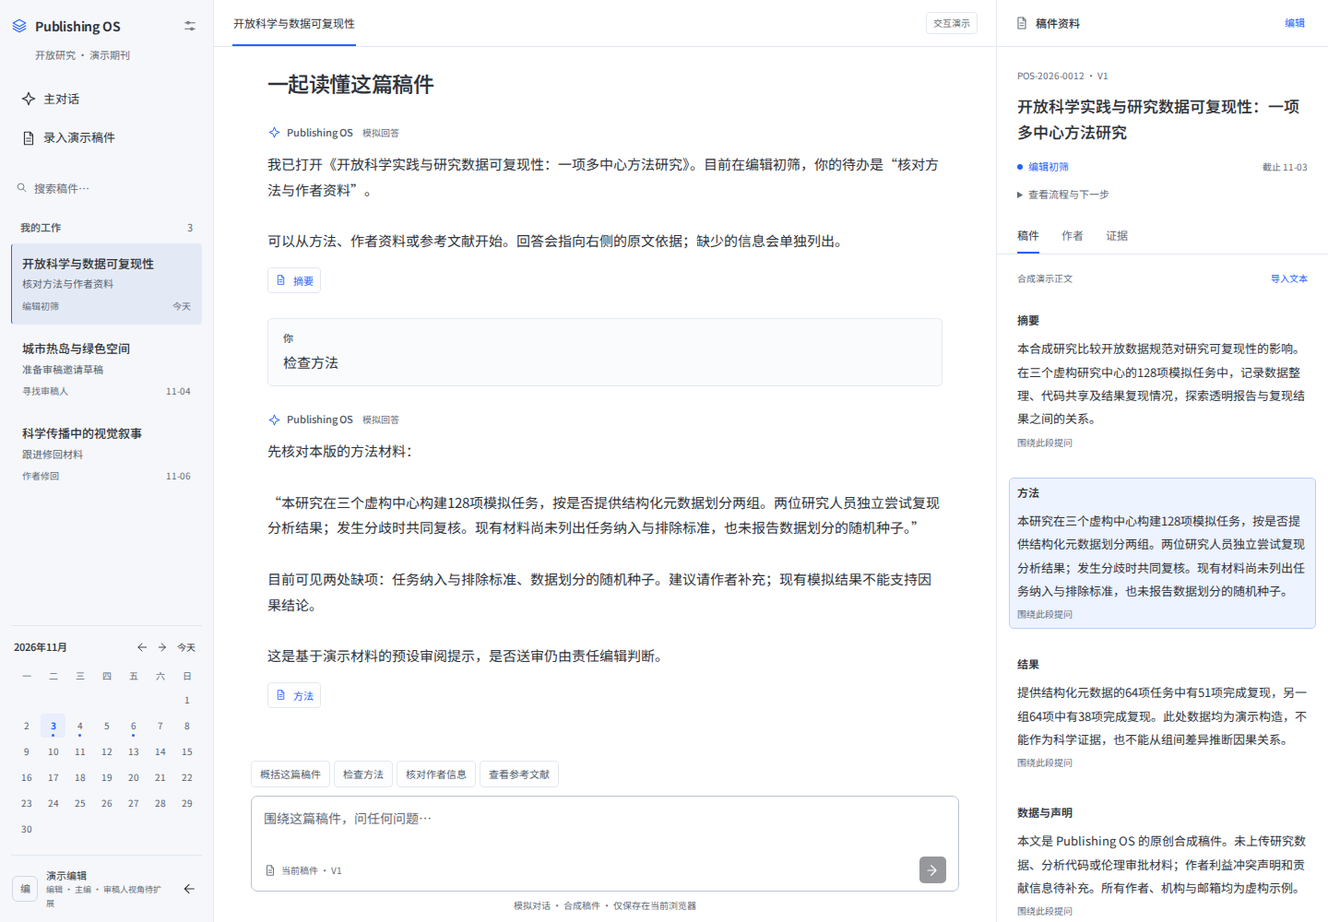
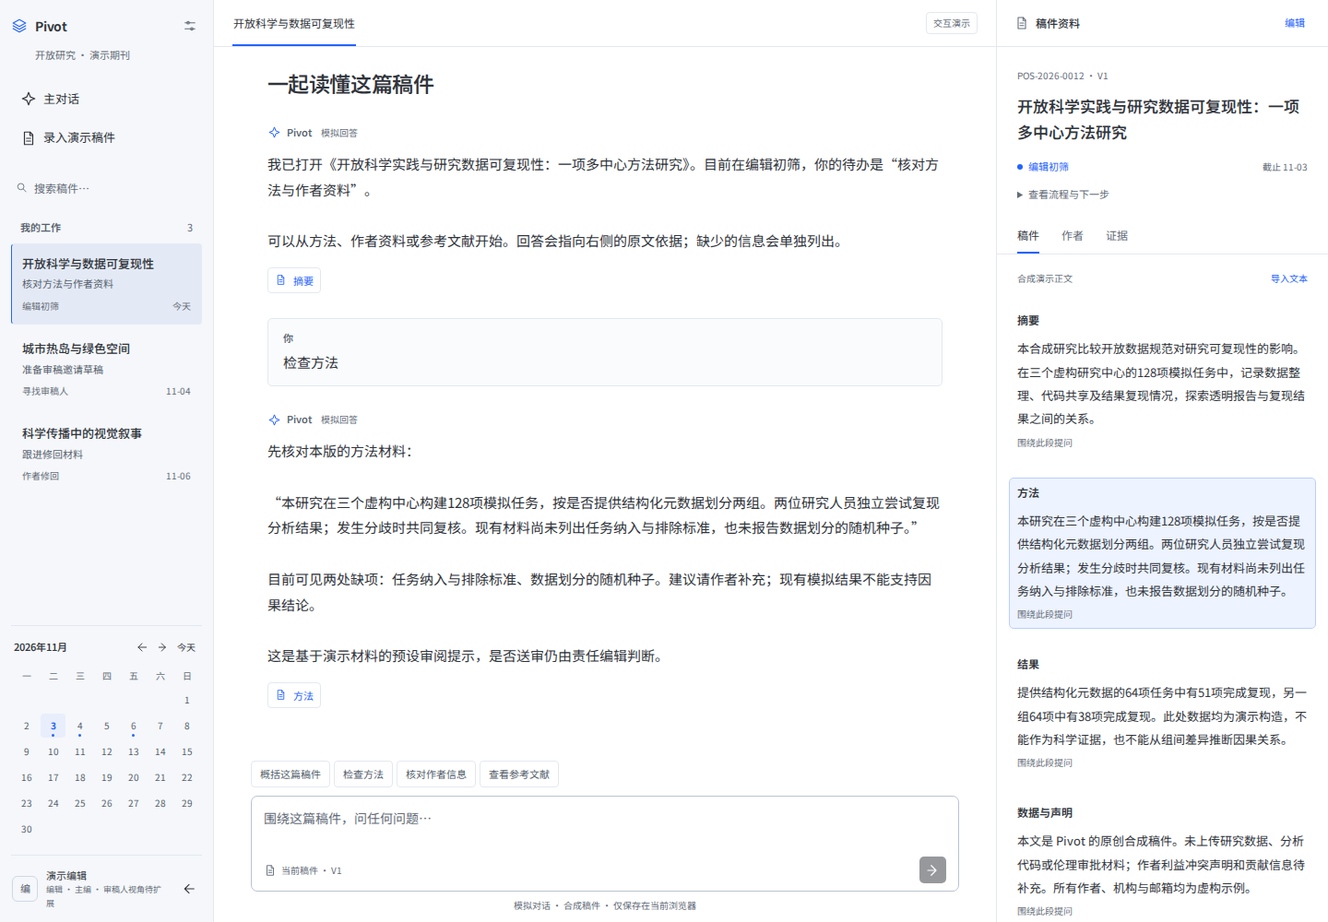
Name product Pivot and package a verified-installation demo release

diff --git a/apps/web/components/demo/workspace.tsx b/apps/web/components/demo/workspace.tsx
@@ -116,7 +116,7 @@ export default function DemoWorkspace() {
 
   function sidebar() {
     const visible = state.manuscripts.filter(m => (!dayFilter || m.due === dayFilter) && `${m.title} ${m.id}`.toLowerCase().includes(search.toLowerCase()));
-    return <><div className={s.brand}><span className={s.brandIcon}><Glyph name="layers" size={18}/></span>Publishing OS<button aria-label="演示说明" onClick={() => setPanel("about")}><Glyph name="settings" size={16}/></button></div>
+    return <><div className={s.brand}><span className={s.brandIcon}><Glyph name="layers" size={18}/></span>Pivot<button aria-label="演示说明" onClick={() => setPanel("about")}><Glyph name="settings" size={16}/></button></div>
       <div className={s.journal}>开放研究 · 演示期刊</div>
       <nav aria-label="工作导航"><button className={`${s.nav} ${!selected ? s.navActive : ""}`} onClick={() => choose("main")}><Glyph name="spark"/>主对话</button><button className={s.nav} onClick={() => setPanel("new")}><Glyph name="file"/>录入演示稿件</button></nav>
       <label className={s.search}><Glyph name="search" size={15}/><input name="manuscript-search" autoComplete="off" aria-label="搜索演示稿件" placeholder="搜索稿件…" value={search} onChange={e => setSearch(e.target.value)}/></label>
@@ -145,7 +145,7 @@ export default function DemoWorkspace() {
     </>;
   }
 
-  if (!ready) return <main className={s.loading}>正在打开 Publishing OS 演示…</main>;
+  if (!ready) return <main className={s.loading}>正在打开 Pivot 演示…</main>;
   return <div className={s.workspace}>
     <aside className={s.sidebar} aria-label="我的工作与日历">{sidebar()}</aside>
     <a href="#demo-message" className={s.skip}>跳到对话输入框</a>
@@ -153,7 +153,7 @@ export default function DemoWorkspace() {
       <header className={s.topbar}><button className={s.mobileTasks} aria-label="打开我的工作" onClick={() => setPanel("tasks")}><Glyph name="layers"/></button><span className={s.activeTitle}>{selected ? selected.short : "主对话"}</span><button className={s.demoTag} onClick={() => setPanel("about")}>交互演示</button><button className={s.mobileMaterial} onClick={() => setPanel("material")}><Glyph name="file" size={16}/>资料</button></header>
       <div className={s.transcript} ref={transcript} role="log" aria-label={selected ? `${selected.id}稿件对话` : "主对话记录"} aria-live="polite" aria-relevant="additions">
         <div className={s.threadHeading}><h1>{selected ? "一起读懂这篇稿件" : "从今天的工作开始"}</h1></div>
-        {messages.map((m: Message) => <article key={m.id} className={m.role === "user" ? s.userMessage : s.assistantMessage}><div className={s.messageAuthor}>{m.role === "user" ? "你" : <><Glyph name="spark" size={15}/>Publishing OS <span>模拟回答</span></>}</div><div className={s.messageText}>{m.text}</div>{!!m.sources?.length && <div className={s.citations}>{m.sources.map(c => <button key={c} onClick={() => { if(m.evidence?.[c === "external" ? "references" : c] !== selected?.paragraphs.find(p => p.id === (c === "external" ? "references" : c))?.text) {setNotice("这条历史回答引用的资料已修改，不能把当前正文当作原依据。请重新提问。"); return;} source(c); }}><Glyph name={c === "external" ? "search" : "file"} size={13}/>{c === "external" ? "公开文献" : selected?.paragraphs.find(p => p.id === c)?.heading || "原文"}</button>)}</div>}</article>)}
+        {messages.map((m: Message) => <article key={m.id} className={m.role === "user" ? s.userMessage : s.assistantMessage}><div className={s.messageAuthor}>{m.role === "user" ? "你" : <><Glyph name="spark" size={15}/>Pivot <span>模拟回答</span></>}</div><div className={s.messageText}>{m.text}</div>{!!m.sources?.length && <div className={s.citations}>{m.sources.map(c => <button key={c} onClick={() => { if(m.evidence?.[c === "external" ? "references" : c] !== selected?.paragraphs.find(p => p.id === (c === "external" ? "references" : c))?.text) {setNotice("这条历史回答引用的资料已修改，不能把当前正文当作原依据。请重新提问。"); return;} source(c); }}><Glyph name={c === "external" ? "search" : "file"} size={13}/>{c === "external" ? "公开文献" : selected?.paragraphs.find(p => p.id === c)?.heading || "原文"}</button>)}</div>}</article>)}
       </div>
       <div className={s.composerWrap}>{notice && <div className={s.notice} role="status"><span>{notice}</span><button aria-label="关闭提示" onClick={() => setNotice("")}><Glyph name="close" size={14}/></button></div>}{storageError && <p role="alert" className={s.notice}>浏览器无法保存演示资料。请允许本地存储或复制需要保留的文字；刷新可能丢失改动。</p>}
         <div className={s.suggestions}>{(selected ? ["概括这篇稿件","检查方法","核对作者信息","查看参考文献"] : ["今天有哪些工作？","下一步先处理什么？"]).map(q => <button key={q} onClick={() => send(q)}>{q}</button>)}</div>

diff --git a/apps/web/components/publishing/workspace.tsx b/apps/web/components/publishing/workspace.tsx
@@ -82,12 +82,12 @@ export default function PublishingWorkspace({ children }: { children: ReactNode 
     } catch (failure) { if (failure instanceof APIError && failure.status === 401) setAuthLost(true); throw failure; }
   }, [session]);
   async function createDraft() { setError(""); setRefreshing(true); try { const result = await mutate<{ manuscript_id: string }>("/drafts", {}); select(result.manuscript_id); await refresh(); } catch (failure) { setError((failure as Error).message); } finally { setRefreshing(false); } }
-  if (!session || authLost) return <div className={styles.loading}><h1>Publishing OS</h1><p role="status">{error || "正在载入工作区…"}</p>{authLost ? <Link href="/">返回登录</Link> : <button onClick={() => void refresh()} disabled={refreshing}>重新载入</button>}</div>;
+  if (!session || authLost) return <div className={styles.loading}><h1>Pivot</h1><p role="status">{error || "正在载入工作区…"}</p>{authLost ? <Link href="/">返回登录</Link> : <button onClick={() => void refresh()} disabled={refreshing}>重新载入</button>}</div>;
   return <Context.Provider value={{ session, workspace, detail, selectedId, error, refreshing, refresh, select, setReviewContext, setUnsaved, mutate }}>
     <div className={styles.shell} data-theme={theme} onClickCapture={guardLink}>
       <a className={styles.skip} href="#publishing-chat">跳到对话</a>
       <aside className={`${styles.sidebar} ${drawer ? styles.drawerOpen : ""}`} aria-label="我的工作">
-        <div className={styles.brand}><strong>Publishing OS</strong><button className={styles.mobileOnly} onClick={() => setDrawer(false)} aria-label="关闭工作列表"><Glyph name="close" /></button></div>
+        <div className={styles.brand}><strong>Pivot</strong><button className={styles.mobileOnly} onClick={() => setDrawer(false)} aria-label="关闭工作列表"><Glyph name="close" /></button></div>
         <p className={styles.journal}>{session.journal.name}</p>
         <div className={styles.sidebarActions}><button onClick={() => select(null)}>我的工作 <span>{workspace?.counts.actionable ?? 0}</span></button>{session.user.role === "author" && <button onClick={() => void createDraft()} disabled={refreshing}><Glyph name="file" size={16} />新建投稿</button>}</div>
         <div className={styles.taskList}>{workspace?.tasks.length ? workspace.tasks.map(task => <Link key={task.id} href={`/publishing?manuscript=${task.manuscript_id}`} onClick={event => { event.preventDefault(); select(task.manuscript_id); }} className={selectedId === task.manuscript_id ? styles.selected : ""}><strong>{task.label}</strong><span>{task.title || "未命名投稿"}</span><small>{task.number}{task.status === "waiting" ? " · 等待处理" : task.blocking ? " · 需要你处理" : ""}</small></Link>) : <p className={styles.emptySmall}>目前没有分派给你的待办。</p>}</div>

diff --git a/apps/web/app/workbench/page.tsx b/apps/web/app/workbench/page.tsx
@@ -93,7 +93,7 @@ export default function Workbench(){
  return <div className={s.shell} data-theme={dark?"dark":"light"} style={{"--wb-preview":`${previewWidth}px`} as CSSProperties}>
   <a className={s.skip} href="#workbench-main">跳转到工作内容</a>
   {navOpen&&<button className={s.backdrop} aria-label="关闭工作导航" onClick={()=>setNavOpen(false)}/>}
-  <aside ref={navRef} role={navOpen?"dialog":undefined} aria-modal={navOpen||undefined} className={`${s.sidebar} ${navOpen?s.navOpen:""}`} aria-label="工作导航"><Link className={s.brand} href="/workbench"><span className={s.brandMark}><Glyph name="layers" size={19}/></span>Publishing OS</Link><div className={s.journal}>开放科学 · 测试期刊</div>
+  <aside ref={navRef} role={navOpen?"dialog":undefined} aria-modal={navOpen||undefined} className={`${s.sidebar} ${navOpen?s.navOpen:""}`} aria-label="工作导航"><Link className={s.brand} href="/workbench"><span className={s.brandMark}><Glyph name="layers" size={19}/></span>Pivot</Link><div className={s.journal}>开放科学 · 测试期刊</div>
    <button className={s.sidebarClose} onClick={()=>setNavOpen(false)}>关闭导航<Glyph name="close" size={15}/></button><nav aria-label="工作视图"><button className={view==="work"&&stage==="all"?s.active:""} onClick={()=>{setStage("all");setTodayOnly(false);navigate("work");}}><Glyph name="inbox"/>我的工作<span>{data.cases.length}</span></button><div className={s.navGroup}>工作队列</div>{stages.slice(1).map(item=><button key={item.key} className={view==="work"&&stage===item.key?s.active:""} onClick={()=>{setStage(item.key);setTodayOnly(false);navigate("work");}}><Glyph name={item.icon} size={16}/>{item.label}<span>{data.cases.filter(c=>c.stage_key===item.key).length}</span></button>)}
    {data.saved_views.length>0&&<><div className={s.navGroup}>常用视图</div>{data.saved_views.map((item,index)=><button key={index} onClick={()=>{setQuery(item.query);setStage(item.stage);setSort(item.sort);setTodayOnly(item.today_only===true);navigate("work");}}><Glyph name="layers" size={16}/>{item.name}</button>)}</>}
    </nav><div className={s.sidebarBottom}><span className={s.demo}>合成数据演示</span><Link href="/">投稿与邮箱工作台<Glyph name="arrow" size={14}/></Link><label className={s.theme}><Glyph name="theme" size={16}/><select aria-label="界面主题" value={theme} onChange={e=>setTheme(e.target.value)}><option value="light">浅色</option><option value="dark">深色</option><option value="system">跟随系统</option></select></label><div className={s.profile}><span>{session.user.name.slice(0,1)}</span><div>{session.user.name}<small>{session.user.role==="chief_editor"?"主编":"责任编辑"}</small></div></div></div>

diff --git a/apps/web/components/demo/data.ts b/apps/web/components/demo/data.ts
@@ -38,7 +38,7 @@ export function initialState(): DemoState {
         { id: "abstract", heading: "摘要", text: "本合成研究比较开放数据规范对研究可复现性的影响。在三个虚构研究中心的128项模拟任务中，记录数据整理、代码共享及结果复现情况，探索透明报告与复现结果之间的关系。" },
         { id: "methods", heading: "方法", text: "本研究在三个虚构中心构建128项模拟任务，按是否提供结构化元数据划分两组。两位研究人员独立尝试复现分析结果；发生分歧时共同复核。现有材料尚未列出任务纳入与排除标准，也未报告数据划分的随机种子。" },
         { id: "results", heading: "结果", text: "提供结构化元数据的64项任务中有51项完成复现，另一组64项中有38项完成复现。此处数据均为演示构造，不能作为科学证据，也不能从组间差异推断因果关系。" },
-        { id: "availability", heading: "数据与声明", text: "本文是 Publishing OS 的原创合成稿件。未上传研究数据、分析代码或伦理审批材料；作者利益冲突声明和贡献信息待补充。所有作者、机构与邮箱均为虚构示例。" },
+        { id: "availability", heading: "数据与声明", text: "本文是 Pivot 的原创合成稿件。未上传研究数据、分析代码或伦理审批材料；作者利益冲突声明和贡献信息待补充。所有作者、机构与邮箱均为虚构示例。" },
         { id: "references", heading: "参考文献", text: "Wilkinson, M. D. et al. The FAIR Guiding Principles for scientific data management and stewardship. Scientific Data 3, 160018 (2016). DOI: 10.1038/sdata.2016.18。该公开文献是参考资料，并非上述合成研究的验证。" },
       ] },
     { id: "POS-2026-0018", short: "城市热岛与绿色空间", title: "城市绿色空间对夏季热环境的影响：一项模拟观察研究", stage: "寻找审稿人", task: "准备审稿邀请草稿", due: due(1), authors: [{ name: "林清", email: "lin@example.test", affiliation: "示例大学 · 环境学院", orcid: "" }], abstract: "通过虚构城市的模拟观测展示稿件审阅流程，不报告真实研究结论。", paragraphs: [{ id: "abstract", heading: "摘要", text: "通过虚构城市的模拟观测展示稿件审阅流程，不报告真实研究结论。" }, { id: "methods", heading: "方法", text: "在20个合成观测点比较模拟温度。尚需补充采样时段和混杂因素说明。" }, { id: "availability", heading: "材料说明", text: "这是原创演示资料，没有真实研究参与者。尚未提供数据文件、作者ORCID或参考文献。" }] },

diff --git a/apps/web/app/page.tsx b/apps/web/app/page.tsx
@@ -40,7 +40,7 @@ function Icon({ name, size = 18 }: { name: string; size?: number }) {
   return <svg width={size} height={size} viewBox="0 0 24 24" fill="none" stroke="currentColor" strokeWidth="1.6" strokeLinecap="round" strokeLinejoin="round" aria-hidden="true">{paths[name] || paths.file}</svg>;
 }
 function Brand({ small = false }: { small?: boolean }) {
-  return <div className={`brand ${small ? "brand-small" : ""}`} translate="no"><span>Publishing OS</span></div>;
+  return <div className={`brand ${small ? "brand-small" : ""}`} translate="no"><span>Pivot</span></div>;
 }
 function date(value: string) { return new Date(value).toLocaleString("zh-CN", { month: "2-digit", day: "2-digit", hour: "2-digit", minute: "2-digit" }); }
 function shortId(id: string) { return id.slice(0, 8).toUpperCase(); }

diff --git a/infrastructure/demo/site/app/layout.tsx b/infrastructure/demo/site/app/layout.tsx
@@ -1,5 +1,5 @@
 import "@fontsource-variable/noto-sans-sc";
 import "./globals.css";
 
-export const metadata = { title: "Publishing OS · 产品演示", robots: { index: false, follow: false } };
+export const metadata = { title: "Pivot · 产品演示", robots: { index: false, follow: false } };
 export default function Layout({ children }: { children: React.ReactNode }) { return <html lang="zh-CN"><body>{children}</body></html>; }

diff --git a/apps/web/app/layout.tsx b/apps/web/app/layout.tsx
@@ -2,7 +2,7 @@ import type { Metadata } from "next";
 import "@fontsource-variable/noto-sans-sc";
 import "./globals.css";
 export const metadata: Metadata = {
-  title: "Publishing OS · 编辑工作台",
+  title: "Pivot · 编辑工作台",
   description: "以对话为核心、由人类治理的科研出版工作台",
 };
 export default function RootLayout({ children }: Readonly<{ children: React.ReactNode }>) {

diff --git a/apps/web/app/demo/page.tsx b/apps/web/app/demo/page.tsx
@@ -1,5 +1,5 @@
 import DemoWorkspace from "../../components/demo/workspace";
 
-export const metadata = { title: "Publishing OS · 产品演示", robots: { index: false, follow: false } };
+export const metadata = { title: "Pivot · 产品演示", robots: { index: false, follow: false } };
 
 export default function DemoPage() { return <DemoWorkspace />; }

diff --git a/docs/deployment/demo-racknerd.md b/docs/deployment/demo-racknerd.md
@@ -1,6 +1,20 @@
 # 本机展示与 RackNerd 安装
 
-当前交付是独立静态 Demo，不是生产投审稿平台。用户要求先本机配置；实际 VPS 未连接、未安装、没有公网验收。本仓库未创建/推送 GitHub 远端。机房 `Test IP` 不是安装目标。
+当前产品定名Pivot，交付独立静态Demo，不是生产投审稿平台。用户已授权公开发布到[DayuGuo/Pivot](https://github.com/DayuGuo/Pivot)，部署包放GitHub Releases；实际VPS仍未连接、安装或公网验收。机房`Test IP`不是安装目标。
+
+## 直接使用Release安装包
+
+从[Releases](https://github.com/DayuGuo/Pivot/releases)下载`pivot-vps-linux-amd64.tar.gz`及`pivot-demo-SHA256SUMS`。包内附带镜像、静态网页、安装脚本、中文README与内部SHA256；独立校验文件也覆盖外层归档。
+
+```bash
+tar -xzf pivot-vps-linux-amd64.tar.gz
+cd pivot-demo-linux-amd64
+bash install.sh
+```
+
+在已安装Docker的Linux amd64执行，脚本核对Docker平台、校验包内文件、加载离线镜像并等待health。默认127.0.0.1:8080供HTTPS反向代理。若明确要用实际公网IP演示，首次运行改为 `PIVOT_BIND=0.0.0.0 PIVOT_PORT=8080 bash install.sh`，并在已有防火墙规则中放行所选端口；脚本不修改OS或防火墙。已有同名`pivot-demo`容器时拒绝覆盖，保留用户现有服务。
+
+以下为开发机重新构建与单独静态归档的补充说明。原开发脚本继续管理兼容名`publishing-os-static-demo`，Release安装器使用独立名`pivot-demo`，均不触碰原业务Compose身份。
 
 ## 本机，一条命令
 
@@ -44,8 +58,8 @@ RackNerd洛杉矶到国内的实际体验取决于线路；公网部署前再从
 
 生成：
 
-- `artifacts/publishing-os-demo-static.tar.gz`：可交给已有Nginx/其他静态主机。
-- `artifacts/publishing-os-demo-image-linux-amd64.tar.gz`：显式amd64离线Docker运行镜像，不包含源码、Node、Python、数据库或密钥。本机预览使用本机原生架构的`:local`标签，彼此分开。
+- `artifacts/pivot-demo-static.tar.gz`：可交给已有Nginx/其他静态主机。
+- `artifacts/pivot-demo-image-linux-amd64.tar.gz`：显式amd64离线Docker运行镜像，不包含源码、Node、Python、数据库或密钥。本机预览使用本机原生架构的`:local`标签，彼此分开。
 
 未来先在VPS执行 `uname -m` 确认：`x86_64`对应默认`linux/amd64`；如果是`aarch64`则在构建机执行 `DEMO_PLATFORM=linux/arm64 ./scripts/build-demo.sh --image`，使用`linux-arm64`包和标签。Node构建阶段使用构建机原生平台，只有Nginx运行层采用目标平台；不能把`docker load`成功当作架构可执行的证明。
 
@@ -54,12 +68,12 @@ RackNerd洛杉矶到国内的实际体验取决于线路；公网部署前再从
 使用已验证SSH目标传输镜像。在VPS有可用Docker的前提下加载并先监听本机环回，**不用在2.5 GB内存中编译**：
 
 ```bash
-docker load -i publishing-os-demo-image-linux-amd64.tar.gz
+docker load -i pivot-demo-image-linux-amd64.tar.gz
 docker run -d --name publishing-os-static-demo \
   --label org.publishing-os.surface=static-demo --restart unless-stopped \
   --memory=128m --cpus=0.5 --read-only \
   --tmpfs /var/cache/nginx --tmpfs /var/run --tmpfs /tmp \
-  -p 127.0.0.1:3110:80 publishing-os-demo:linux-amd64
+  -p 127.0.0.1:3110:80 pivot-demo:linux-amd64
 curl --fail http://127.0.0.1:3110/health
 ```
 

diff --git a/README.md b/README.md
@@ -1,4 +1,4 @@
-# Publishing OS
+# Pivot
 
 以稿件资料为基础的对话式科研出版工作台。编辑从自己的待办进入稿件，在中心对话中审阅，随时在右侧核对原文、作者资料和引用；正式操作保留负责人的确认权。
 
@@ -10,7 +10,7 @@
 
 打开 **[localhost:3110](http://localhost:3110)**。只需Docker，无需账号、数据库或模型密钥。停止：`./scripts/demo.sh stop`。
 
-![Publishing OS 产品演示](docs/preview/demo-desktop.png)
+![Pivot 产品演示](docs/preview/demo-desktop.png)
 
 - 三栏工作台：本人待办、常驻对话、稿件材料与当前步骤。
 - 主对话与稿件会话独立，左下角日历可按截止日筛选工作。
@@ -19,7 +19,15 @@
 
 **这是明确标记的模拟交互，使用合成稿件与当前浏览器存储，不调用模型或业务API，不发送邮件，不作正式决定。** 新导入资料不冒充已被AI分析，ORCID手填不等于认证；真实可运行的后端样本另见下方 `/publishing`。
 
-本机构建安装包：`./scripts/build-demo.sh --image`。可在2核/2.5 GB的RackNerd VPS上仅运行Nginx镜像，服务器无需编译或部署完整业务栈。[五分钟演示与安装说明](docs/deployment/demo-racknerd.md) · [本阶段范围](specs/012-showcase-demo.md) · [实际验证记录](docs/development/demo-delivery.md)。当前已本机部署，尚未上传GitHub或连接VPS。
+已定名 **Pivot**（原Publishing OS）。[GitHub Releases部署包](https://github.com/DayuGuo/Pivot/releases)将提供`pivot-vps-linux-amd64.tar.gz`，含离线镜像、静态网页、安装器和校验和。解压后：
+
+```bash
+tar -xzf pivot-vps-linux-amd64.tar.gz
+cd pivot-demo-linux-amd64
+bash install.sh
+```
+
+前提为Linux amd64与Docker；默认监听环回8080，可通过HTTPS代理访问。明确需要公网IP直接演示时用`PIVOT_BIND=0.0.0.0 PIVOT_PORT=8080 bash install.sh`并自行放行端口。本机构建：`./scripts/build-demo.sh --image && ./scripts/package-vps-demo.sh`，VPS无需编译、数据库或模型密钥。[五分钟演示与完整安装说明](docs/deployment/demo-racknerd.md) · [本阶段范围](specs/012-showcase-demo.md) · [实际验证记录](docs/development/demo-delivery.md)。上传与CI最终结果见PROGRESS.md，尚未连接用户VPS。
 
 核心产品设计：[PRODUCT_DESIGN.md](PRODUCT_DESIGN.md)。日历/双层对话当前只在独立Demo展示；真实数据库中的聚合、多身份、多刊邀请与邮箱/ORCID注册仍待实施，不能从截图推断上线。
 

diff --git a/infrastructure/demo/INSTALL.md b/infrastructure/demo/INSTALL.md
@@ -1,0 +1,33 @@
+# Pivot Demo 安装包
+
+这是产品展示版本：合成稿件、模拟对话、浏览器本地存储，不连接模型/数据库，不发送邮件或作正式决定。不要录入保密稿件和真实私人资料。
+
+适用：Linux amd64（`uname -m`为`x86_64`）、已安装Docker Engine。只运行Nginx，镜像不包含Node/Python；2核、2.5GB VPS可先做轻量展示。没有自动OS安装、开放防火墙或生产部署。
+
+解压后在本目录运行：
+
+```bash
+bash install.sh
+```
+
+默认仅本机环回8080，供SSH隧道或HTTPS反向代理。若明确希望通过VPS公网IP的8080端口直接演示：
+
+```bash
+PIVOT_BIND=0.0.0.0 PIVOT_PORT=8080 bash install.sh
+```
+
+再在服务器防火墙/云防火墙放行该端口，访问`http://实际公网IP:8080`。日常分享建议专用域名与HTTPS代理。不要以机房Test IP当服务器IP。
+
+安装器核对平台和SHA256，等待health；已有同名容器时拒绝覆盖。不需要API Key、登录账号或`.env`。它不修改其他容器、全局模型配置或系统防火墙。该版本没有服务器用户权限，不等于真实投审稿系统。
+
+```bash
+docker logs pivot-demo
+docker stop pivot-demo
+docker start pivot-demo
+```
+
+资料留在各自浏览器，修改域名/端口会成为独立存储。清空演示用界面的“重置演示”。更新前先核对旧容器label/镜像，再停止删除专用容器并运行新包；不要使用全局prune。
+
+附带`pivot-demo-static.tar.gz`是CPU架构无关的静态网页，可交给现有Nginx；其中`nginx.conf.example`需按实际站点目录、端口和SELinux配置。ARM64宿主应使用原生构建或静态包，不能执行amd64镜像。
+
+[源码与详细安装说明](https://github.com/DayuGuo/Pivot/blob/main/docs/deployment/demo-racknerd.md)。具体已验证版本与限制以GitHub Release说明为准，未在用户VPS上实际安装不声称完成公网部署。

diff --git a/DECISIONS.md b/DECISIONS.md
@@ -1,5 +1,11 @@
 # 架构决策记录
 
+## ADR-024：Pivot品牌与公开GitHub发行
+
+2026-11-03用户暂定名Pivot，并明确授权DayuGuo账号下公开仓库与VPS部署包。对外界面、页面标题、README与发行镜像/归档改名；保留Python/DB/Compose/缓存身份，避免重命名破坏已存数据或真实模型配置。Release专用安装器不依赖源码或Node，核对linux/amd64、SHA256、已有容器与health，默认环回，可显式绑定公网。开发入口兼容容器名与Release安装容器分开。
+
+GitHub连接器用于发现账号/仓库，没有Release二进制上传能力，采用同账号已授权gh CLI创建仓库和发行。公开前扫描Git追踪内容与历史模式，仅上传代码/合成截图及明确部署产物；不上传.env、数据库、运行日志或供应商凭据。不自动连接VPS或正式生产部署。x86 GitHub CI将实际解包安装器并验证页面，而非把ARM机器的镜像构建/加载当作x86运行验收。
+
 ## ADR-023：产品展示先于真实单刊增量，复用UI独立静态交付
 
 2026-11-03。用户选择先本机配置，阶段目标为可GitHub展示且能安装到RackNerd 2核/2.5GB/AlmaLinux8的Demo。当前不连接VPS、不创建公开仓库。spec012置于spec011之前，后者的8周/专业复核预算仍是后续真实试点成本，不作为展示版前置支出。
